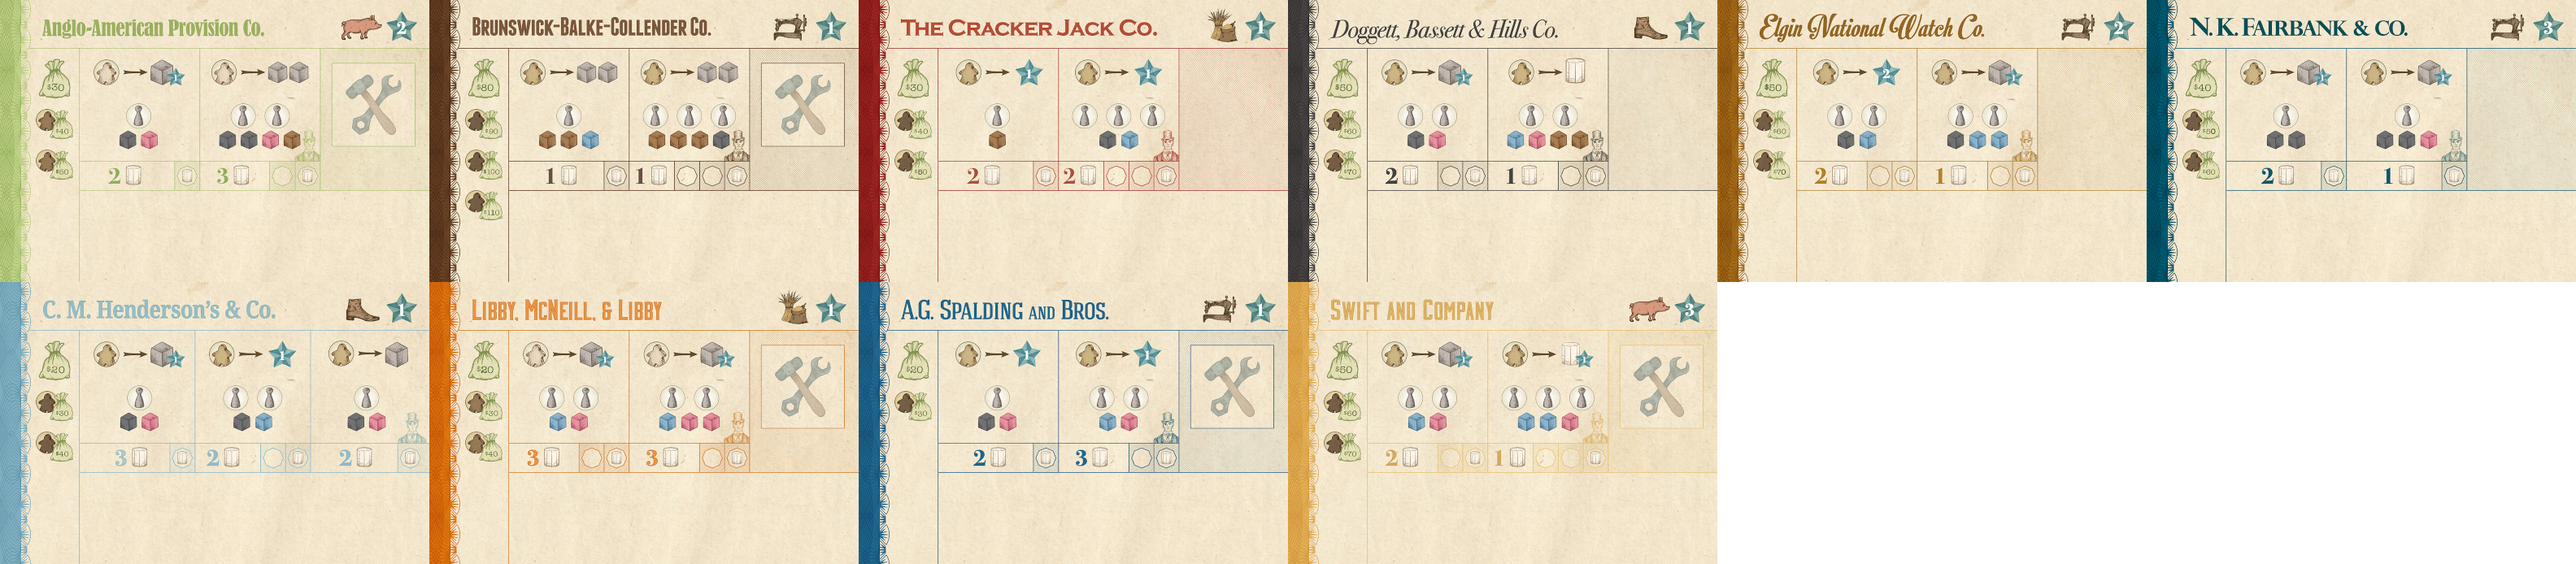
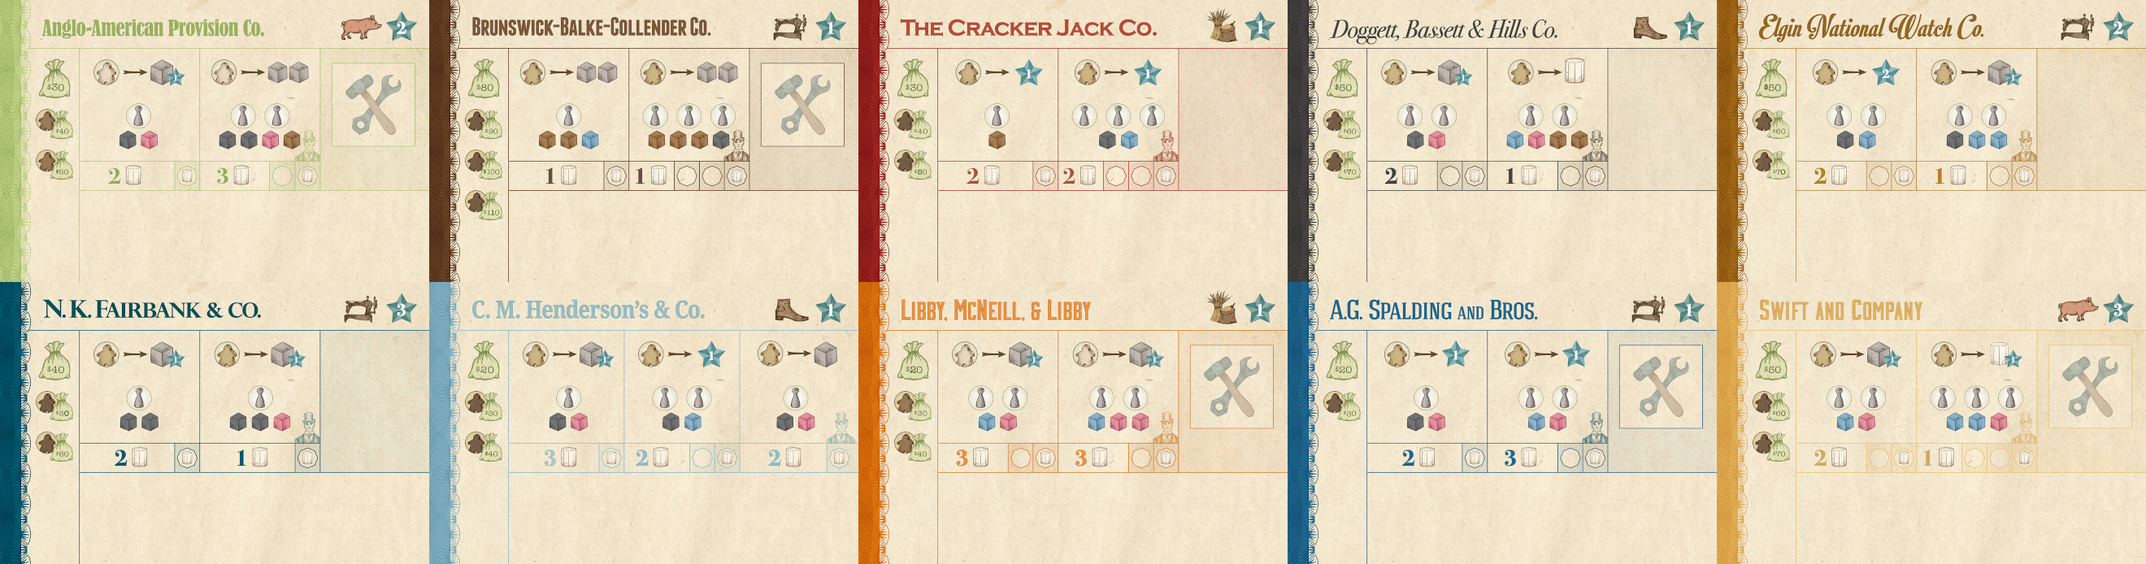
Five companies by row (base: 10, expension: +5) (#7)

diff --git a/cityofthebigshoulders.js b/cityofthebigshoulders.js
@@ -1502,7 +1502,7 @@ function (dojo, declare) {
 
             newStock.create( this, $(stockName), 14, 14);
 
-            // Specify that there are 5 buildings per row
+            // Specify that there are 4 stocks per row
             newStock.image_items_per_row = 4;
             newStock.setSelectionMode(0);
             newStock.item_margin = 1;
@@ -2625,8 +2625,8 @@ function (dojo, declare) {
             newStock.create( this, $(id), 350, 229);
             this[propertyName] = newStock;
 
-            // Specify that there are 6 companies per row
-            newStock.image_items_per_row = 6;
+            // Specify that there are 5 companies per row
+            newStock.image_items_per_row = 5;
             newStock.setSelectionMode(0);
             
             var i = 0;

diff --git a/cityofthebigshoulders.css b/cityofthebigshoulders.css
@@ -620,7 +620,7 @@
 }
 
 .stockitem.company {
-    background-size: 2100px 458px;
+    background-size: 1750px 458px;
 }
 
 .stockitem.tile {
